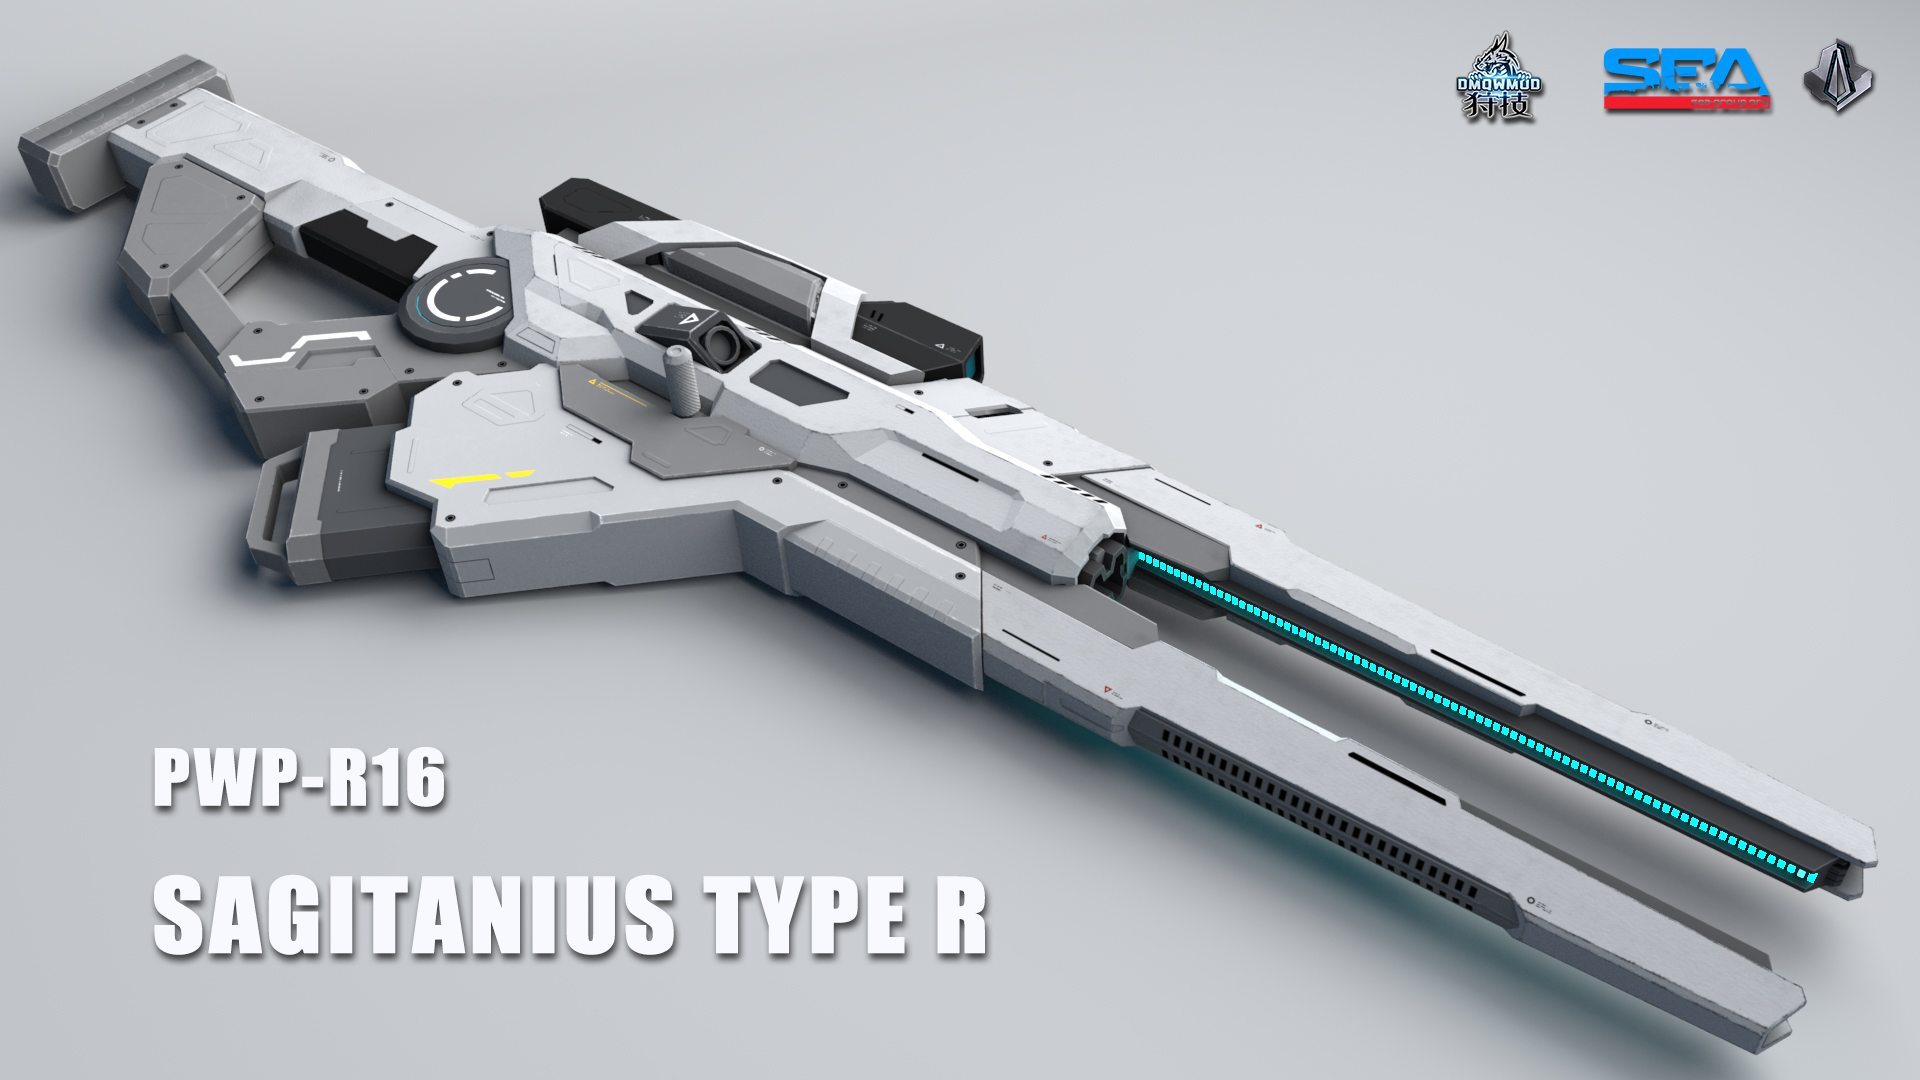
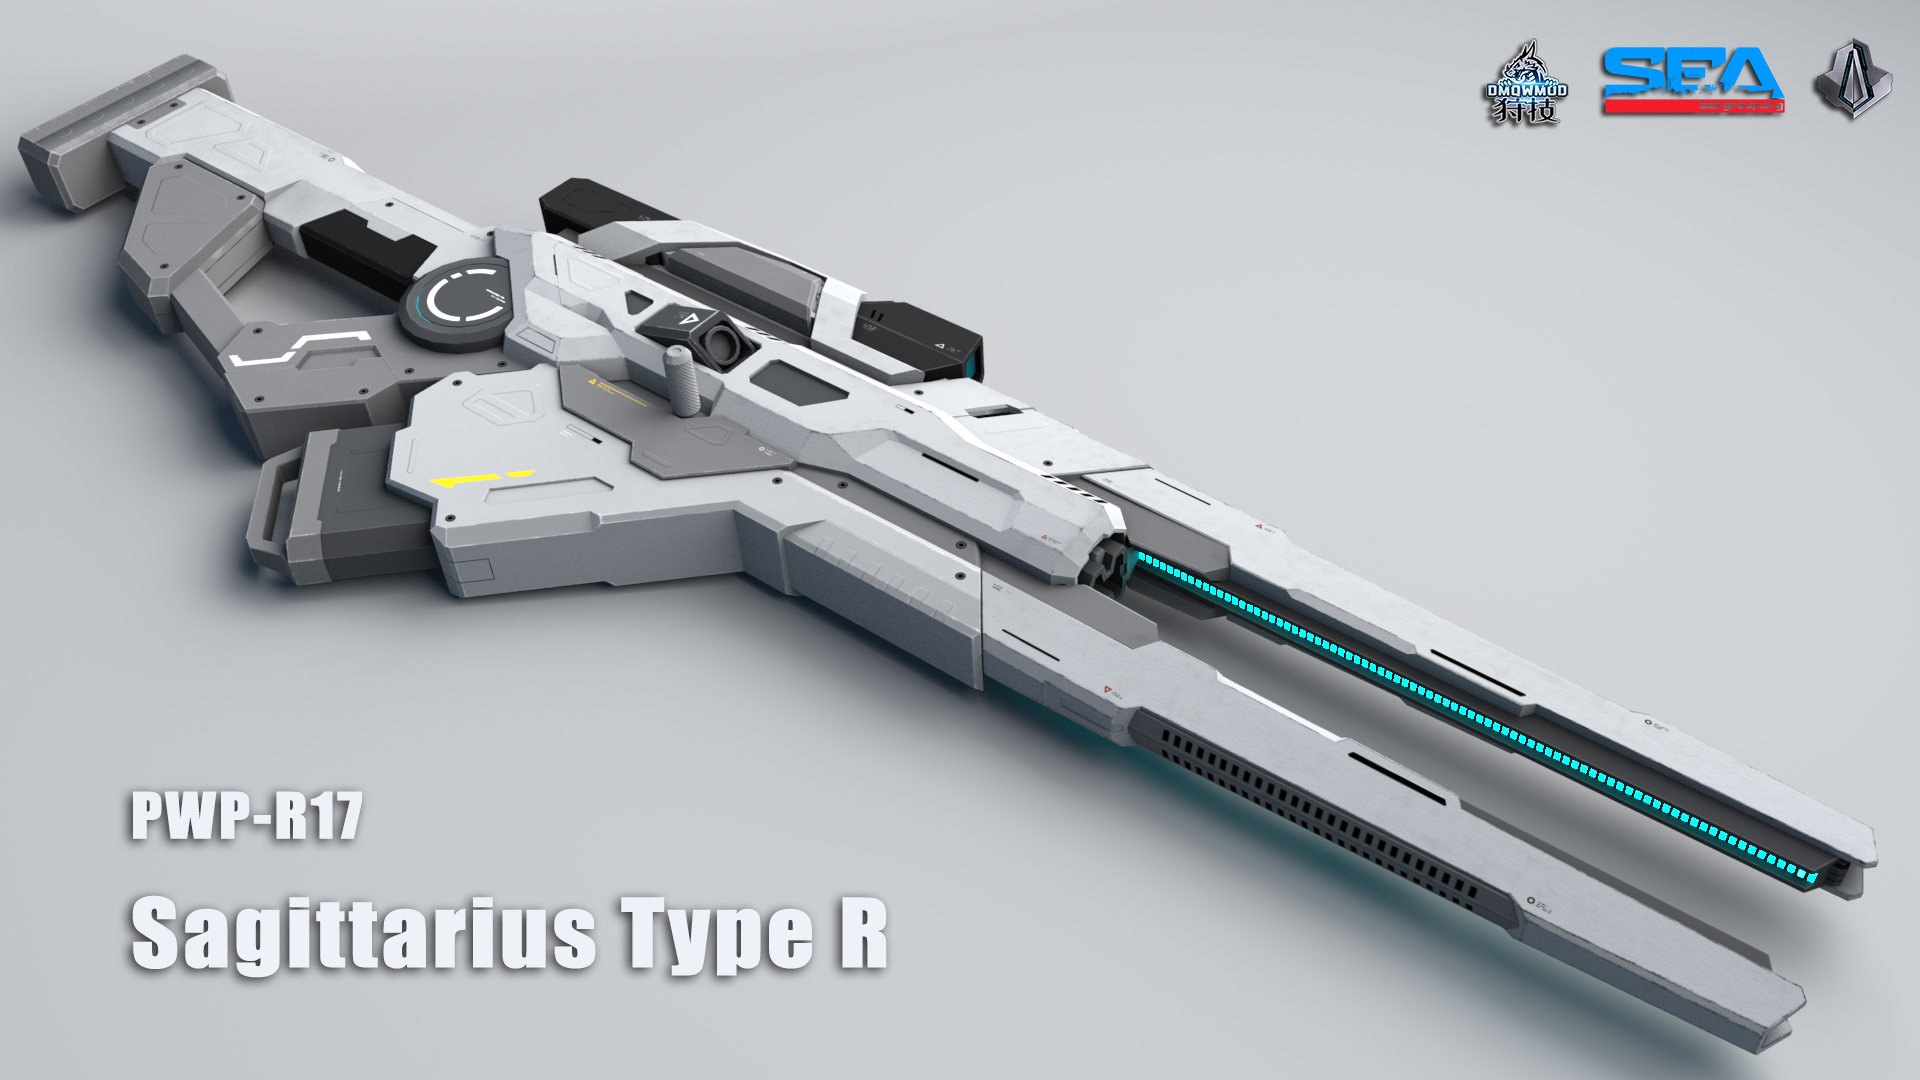
v1.1

Changed region(s): [[0.0625, 0.6722, 0.5312, 0.9167], [0.75, 0.0306, 1.0, 0.1222]]

diff --git a/README.md b/README.md
@@ -1,4 +1,4 @@
-# MHW Weapon skin mod: PWP-R16 Sagitanius type R
+# MHW Weapon skin mod: PWP-R16 Sagittanius type R
 
 ======================Presented by SEA group & 狩技======================
 
